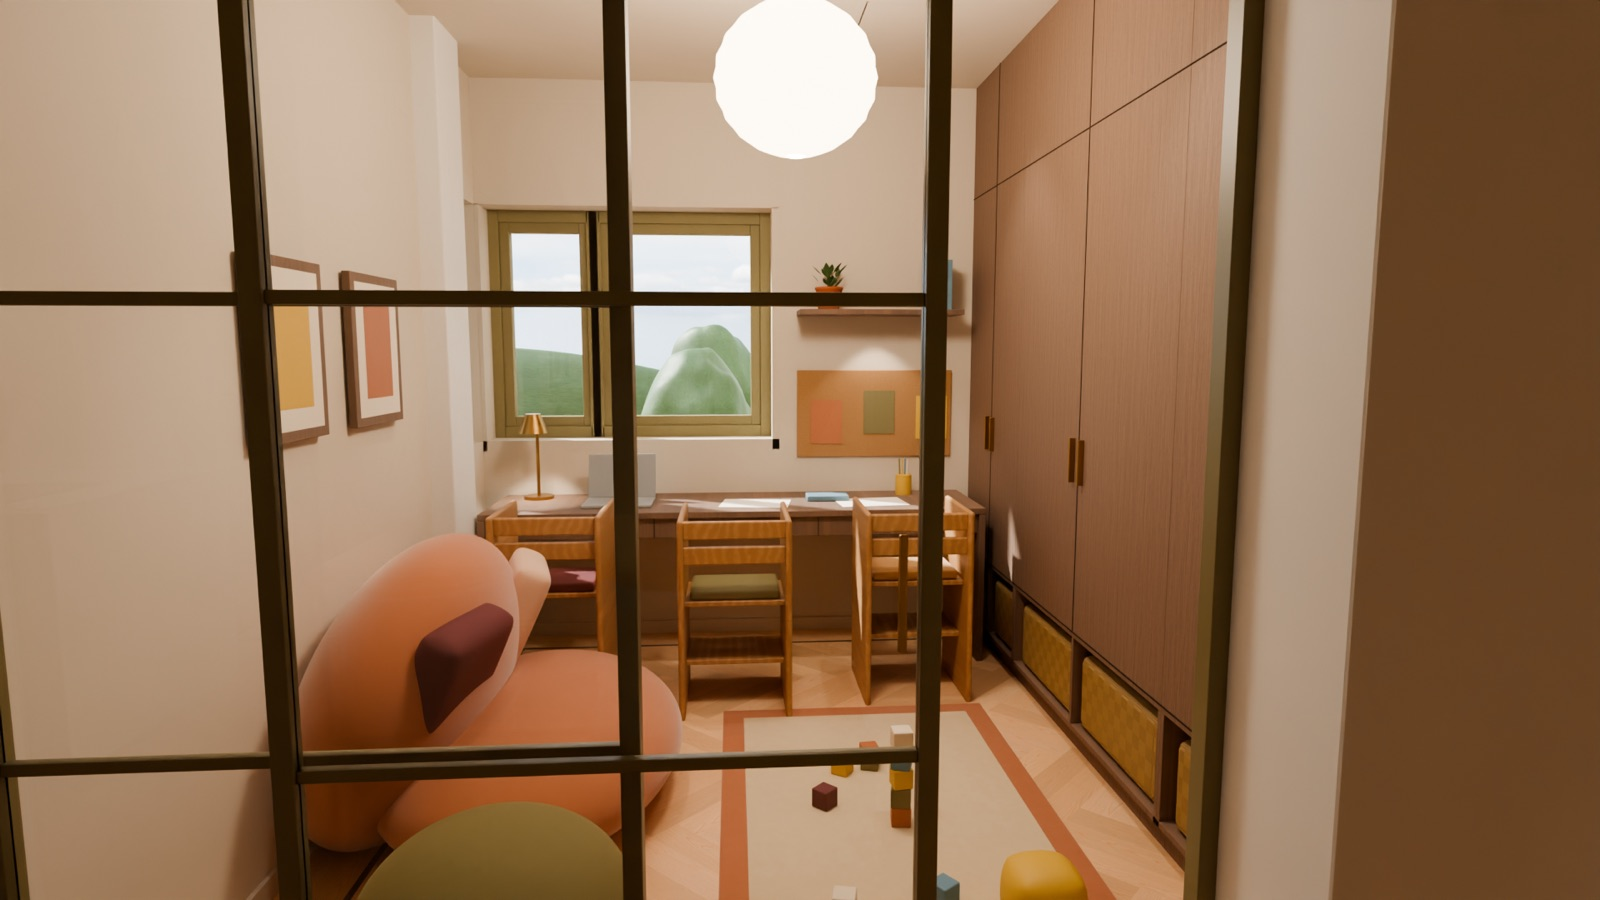
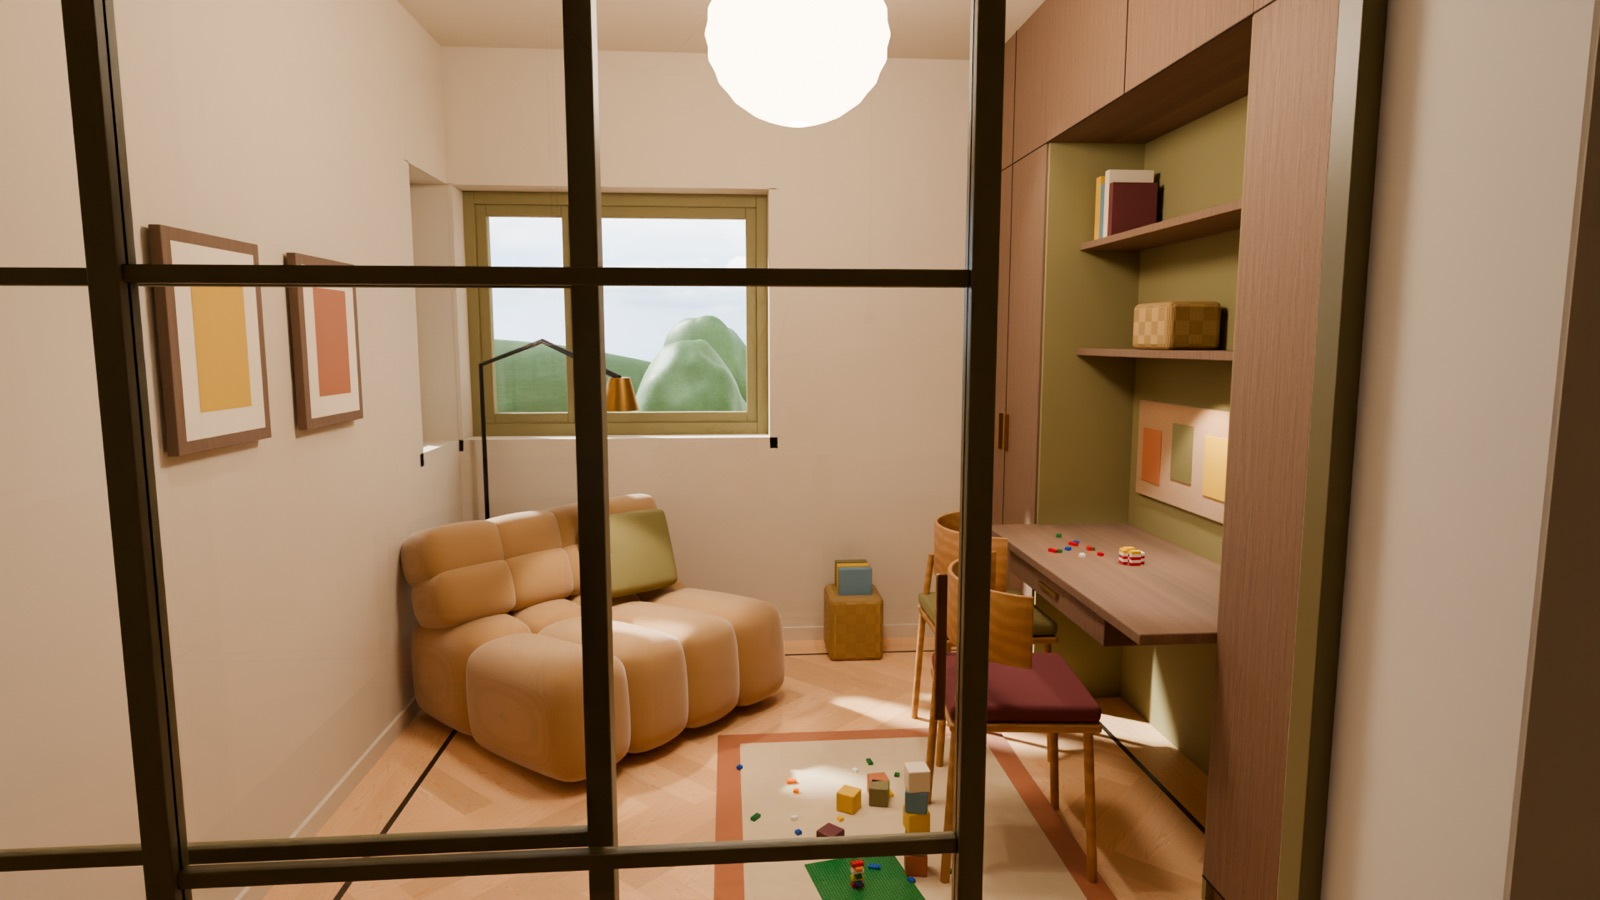
Keuken: erker en eiland als nieuwe 360-punten; eindrenders bijgewerkt (Terra Pink, eethoek, Extens Low, speelkamer v4, deur, spots)

diff --git a/uitleg.html b/uitleg.html
@@ -11,7 +11,7 @@
 <style>
   :root{
     --paper:#F4EEE4; --card:#FBF7F0; --ink:#2A2120; --muted:#6E625B; --rule:#DED2C0;
-    --sand:#D9CFBF; --moss:#8C845F; --merlot:#5F373A; --bounty:#D7CFB6; --tulle:#E6C3AA;
+    --sand:#D9CFBF; --moss:#8C845F; --merlot:#5F373A; --bounty:#D7CFB6; --tulle:#A4705E;
     --serif:"Fraunces",Georgia,serif; --sans:"Inter","Helvetica Neue",Arial,sans-serif;
   }
   @media (prefers-color-scheme: dark){
@@ -78,8 +78,7 @@
   .kleur small{color:var(--muted);font-size:12px;letter-spacing:.06em}
   .kleur p{font-size:14px;margin-top:8px}
   .patroon-bounty{background:repeating-linear-gradient(70deg,#D3C9AE 0 18px,#E6DFCC 18px 34px,#C2B596 34px 36px)}
-  .patroon-tulle{background:repeating-linear-gradient(0deg,#E1BFA6 0 2px,#EACDB8 2px 4px),#E6C3AA;background-blend-mode:multiply}
-  .regels{margin-top:32px;display:grid;grid-template-columns:repeat(auto-fit,minmax(260px,1fr));gap:16px}
+    .regels{margin-top:32px;display:grid;grid-template-columns:repeat(auto-fit,minmax(260px,1fr));gap:16px}
   .regel{border-left:3px solid var(--merlot);padding:4px 0 4px 16px}
   .regel b{font-weight:600}
 
@@ -99,7 +98,7 @@
 <header class="hero"><div class="wrap">
   <div class="kicker">Begane grond · ontwerp</div>
   <h1>Warm, gelaagd en <em>vol kleur</em></h1>
-  <p class="lede">Een rustige zandbasis met twee uitgesproken accenten: diep Merlot in de woonkamer en mosgroen op de bogen. Twee behangen geven textuur. Walnoot, eiken en donkerblauw maken het af.</p>
+  <p class="lede">Een rustige zandbasis met uitgesproken accenten: diep Merlot en warm Terra Pink in de woonkamer, mosgroen op de bogen. Het Bounty-behang geeft textuur. Walnoot, eiken en donkerblauw maken het af.</p>
   <div class="balk" aria-hidden="true"><span style="background:var(--sand)"></span><span style="background:var(--moss)"></span><span style="background:var(--bounty)"></span><span style="background:var(--tulle)"></span><span style="background:var(--merlot)"></span></div>
 </div></header>
 
@@ -112,30 +111,30 @@
       <img src="img/sfeer/16-woonkamer-v2-zithoek.jpg" alt="Woonkamer: Eyye Dura-bank, salontafel en grijs gevlochten kleed, met de mosgroene bogen naar de eetzone" loading="lazy">
       <div class="rij">
         <img src="img/sfeer/17-woonkamer-v2-vanaf-boog.jpg" alt="Woonkamer vanaf de boog met Nelson Bench en donkerblauwe Extens-kast" loading="lazy">
-        <img src="img/sfeer/18-woonkamer-v2-frame-tv.jpg" alt="Tv-wand met Samsung The Frame boven een walnoten Treku Lauki met Pro-Ject platenspeler" loading="lazy">
+        <img src="img/sfeer/18-woonkamer-v2-frame-tv.jpg" alt="Tv-wand in Terra Pink met Samsung The Frame boven een donkerblauwe Extens Low met Pro-Ject platenspeler" loading="lazy">
       </div>
     </div>
     <div>
       <h3>Woonkamer: knus en muzikaal</h3>
       <p>Merlot Mania omarmt de kamer, op de wanden én op kozijnen, plinten en deuren. Daardoor voelt de kamer als één geheel: diep en warm, met de tuin als lichte uitsparing.</p>
-      <p>Tegen de woningscheidende wand zorgt het textielachtige Tulle-behang in nude voor zachtheid achter de bank. De Eyye Dura staat dwars in de kamer met zicht op de tuin, met de Nelson Bench erachter. The Frame hangt als kunstwerk op de walnoten Lauki; de B&amp;W-speakers staan in de hoeken van de pui.</p>
-      <div class="tags"><span class="tag"><i style="background:var(--merlot)"></i>Merlot Mania</span><span class="tag"><i style="background:var(--tulle)"></i>Tulle Nude</span><span class="tag"><i style="background:var(--moss)"></i>boog Monumental Moss</span></div>
+      <p>De woningscheidende wand achter de bank, waar The Frame hangt, is Terra Pink: een warm, vergrijsd oudroze met een aardse ondertoon dat de Merlot zachter maakt. De Eyye Dura staat dwars in de kamer met zicht op de tuin, met de Nelson Bench erachter. The Frame hangt als kunstwerk boven een donkerblauwe Artifort Extens Low, de partner van de hoge Extens bij de boog; de B&amp;W-speakers staan in de hoeken van de pui.</p>
+      <div class="tags"><span class="tag"><i style="background:var(--merlot)"></i>Merlot Mania</span><span class="tag"><i style="background:var(--tulle)"></i>Terra Pink</span><span class="tag"><i style="background:var(--moss)"></i>boog Monumental Moss</span></div>
     </div>
   </article>
 
   <article class="ruimte">
     <div class="beelden">
-      <img src="img/sfeer/22-woonkamer-v2-portret-frontaal.jpg" alt="Vleugel in de hoek met het portret erboven, uitgelicht door inbouwspots" loading="lazy">
+      <img src="img/sfeer/22-woonkamer-v2-vleugelhoek-frontaal.jpg" alt="Vleugel in de hoek, uitgelicht door inbouwspots in het plafond" loading="lazy">
       <div class="rij">
-        <img src="img/sfeer/21-woonkamer-v2-vleugel-portret.jpg" alt="Vleugelhoek met portret op de tv-niswand" loading="lazy">
-        <img src="img/sfeer/04-eettafel-bounty.jpg" alt="Eetzone met Bounty-behang en mosgroene boog" loading="lazy">
+        <img src="img/sfeer/21-woonkamer-v2-vleugel.jpg" alt="Vleugelhoek met de Merlot-wanden" loading="lazy">
+        <img src="img/sfeer/24-eethoek-vanaf-boog.jpg" alt="Eethoek met eetbank, ovale donkere tafel, stoelen met cognac zitting en twee platte hanglampen" loading="lazy">
       </div>
     </div>
     <div>
       <h3>Muziekhoek: de vleugel als blikvanger</h3>
-      <p>De vleugel staat diagonaal in de hoek bij de tv-nis, met de kruk half onder het klavier. Erboven hangt het portret (120 × 170, zonder lijst). Alleen inbouwspots in het plafond: twee op het schilderij, één op de vleugel.</p>
-      <h3 style="margin-top:22px">Eetzone: licht en textuur</h3>
-      <p>De eetzone is rustig in Frosted Sand. De woningscheidende wand krijgt het Bounty-behang: gestileerde bladeren van fijn geweven gras, ton-sur-ton in zand. De boog in Monumental Moss verbindt eetzone en woonkamer.</p>
+      <p>De vleugel staat diagonaal in de hoek bij de tv-nis, met de kruk half onder het klavier. Inbouwspots in het plafond lichten de vleugel en de Merlot-wanden uit, zodat de hoek niet donker wordt.</p>
+      <h3 style="margin-top:22px">Eethoek: tafelen als in een restaurant</h3>
+      <p>Tegen de Bounty-wand een gestoffeerde eetbank in grijs-lila bouclé, met een ovale tafel in zwartbruin eiken op twee geribde zuilpoten. Aan de andere kant stoelen met een gerookt eiken rugschaal en een zitting van cognac leer. Twee platte, champagnekleurige kegelpendels hangen aan een slingerende kabel en geven warm licht op het blad; een jute kleed en terracotta vazen maken het af.</p>
       <div class="tags"><span class="tag"><i style="background:var(--sand)"></i>Frosted Sand</span><span class="tag"><i style="background:var(--bounty)"></i>Bounty</span><span class="tag"><i style="background:var(--moss)"></i>Monumental Moss</span></div>
     </div>
   </article>
@@ -155,14 +154,14 @@
     <div class="beelden">
       <img src="img/sfeer/10-speelkamer-door-pui.jpg" alt="Speelkamer gezien door de stalen glazen pui" loading="lazy">
       <div class="rij">
-        <img src="img/sfeer/11-speelkamer-bureau-raam.jpg" alt="Bureau onder het raam met drie meegroeistoelen" loading="lazy">
-        <img src="img/sfeer/12-speelkamer-zitzak.jpg" alt="Zitzak en poef tegen de straatwand" loading="lazy">
+        <img src="img/sfeer/13-speelkamer-bureaukast.jpg" alt="Walnoten kastenwand met bureaunis en twee slanke stoelen" loading="lazy">
+        <img src="img/sfeer/11-speelkamer-leeshoek.jpg" alt="Leeshoek met HKliving Lazy in camel corduroy en leeslamp" loading="lazy">
       </div>
     </div>
     <div>
       <h3>Speelkamer: achter glas, midden in huis</h3>
-      <p>Een stalen glazen pui met schuifdeur in Monumental Moss sluit de speelkamer af, maar houdt het contact met de eetzone. Een walnoten kast tot het plafond (40 cm diep) geeft volop opbergruimte, met manden onderin.</p>
-      <p>Onder het raam een bureau op normale hoogte (73 cm), zodat er ook thuis gewerkt kan worden; de kinderen zitten op meegroeistoelen. Een zitzak en poef maken er een plek om te lezen en te hangen.</p>
+      <p>Een stalen glazen pui met schuifdeur in Monumental Moss sluit de speelkamer af, maar houdt het contact met de eetzone. Een rustige walnoten kastenwand tot het plafond (40 cm diep), dicht tot de vloer, met in het midden een bureaunis: mosgroene achterwand, blad op 73 cm (ook om thuis te werken), planken en een prikbord. Twee slanke stoelen met een licht eiken rugschaal schuiven eronder.</p>
+      <p>In de raamhoek een HKliving Lazy in camel corduroy: laag, breed en zacht, om in weg te kruipen met een boek, met een leeslamp erboven. LEGO op het bureau en het speelkleed maken het af.</p>
       <div class="tags"><span class="tag"><i style="background:var(--sand)"></i>Frosted Sand</span><span class="tag"><i style="background:#6B4A33"></i>walnoot</span><span class="tag"><i style="background:var(--moss)"></i>pui Monumental Moss</span></div>
     </div>
   </article>
@@ -174,10 +173,10 @@
   <div class="plangrid">
     <img src="img/plan.jpg" alt="Plattegrond begane grond met woonkamer, eetzone, speelkamer, keuken en hal" loading="lazy">
     <ol>
-      <li><b>Woonkamer (tuinzijde, 20 cm verdiept).</b> Bank dwars in de kamer, 30 cm van de wand; Nelson Bench erachter. Vleugel diagonaal in de hoek. Loopruimte langs de vleugel ±84 cm, tussen boog en Nelson Bench ±1,26 m.</li>
+      <li><b>Woonkamer (tuinzijde, 20 cm verdiept).</b> Bank dwars in de kamer, 30 cm van de Terra Pink-wand; Nelson Bench erachter. Vleugel diagonaal in de hoek. Loopruimte langs de vleugel ±84 cm, tussen boog en Nelson Bench ±1,26 m.</li>
       <li><b>Bogen.</b> Drie bogen in Monumental Moss vormen de overgang naar de eetzone; de middelste is de looproute.</li>
-      <li><b>Eetzone.</b> Eettafel 240 × 100 met zes stoelen langs de Bounty-wand.</li>
-      <li><b>Speelkamer.</b> Achter de glazen pui; kast tegen de dichte wand, bureau onder het raam, zitzak bij de straatwand.</li>
+      <li><b>Eetzone.</b> Eetbank (2,60 m) tegen de Bounty-wand, ovale tafel 240 × 100 en drie stoelen; ±1,17 m loopruimte tot de penant.</li>
+      <li><b>Speelkamer.</b> Achter de glazen pui; walnoten kastenwand met bureaunis, leesfauteuil in de raamhoek.</li>
       <li><b>Keuken met erker.</b> Kastenwand en eiland; de erker aan de straatzijde.</li>
       <li><b>Hal.</b> Rustig in Frosted Sand, met de trap naar boven.</li>
     </ol>
@@ -186,12 +185,12 @@
 
 <section id="kleur"><div class="wrap">
   <h2>Kleurgebruik</h2>
-  <p class="intro">Vijf kleuren en behangen die steeds terugkomen. Kleurnamen zijn van LAB Colour the World; de kleurvlakken hier zijn schermbenaderingen, geen echte stalen.</p>
+  <p class="intro">Vier verfkleuren en één behang die steeds terugkomen. Kleurnamen zijn van LAB Colour the World; de kleurvlakken hier zijn schermbenaderingen, geen echte stalen.</p>
   <div class="kleuren">
     <div class="kleur"><div class="staal" style="background:var(--sand)"><span>1</span></div><div class="tekst"><b>Frosted Sand</b><small>LAB no. 374 · verf</small><p>De basis: hal, eetzone, keuken, speelkamer en alle plafonds.</p></div></div>
     <div class="kleur"><div class="staal" style="background:var(--moss);color:#F4EEE4"><span>2</span></div><div class="tekst"><b>Monumental Moss</b><small>LAB no. 265 · verf</small><p>De bogen (beide zijden), kozijnen in keuken en speelkamer, de glazen pui en de trap.</p></div></div>
     <div class="kleur"><div class="staal patroon-bounty"><span>3</span></div><div class="tekst"><b>Bounty</b><small>ARTE 24024 · behang</small><p>Woningscheidende wand in de eetzone en keuken.</p></div></div>
-    <div class="kleur"><div class="staal patroon-tulle"><span>4</span></div><div class="tekst"><b>Tulle Nude</b><small>ARTE 73089 · behang</small><p>Woningscheidende wand in de woonkamer, achter de bank.</p></div></div>
+    <div class="kleur"><div class="staal" style="background:var(--tulle);color:#F4EEE4"><span>4</span></div><div class="tekst"><b>Terra Pink</b><small>LAB no. 102 · verf</small><p>Tv-wand achter de bank in de woonkamer, plint mee in de kleur.</p></div></div>
     <div class="kleur"><div class="staal" style="background:var(--merlot);color:#F4EEE4"><span>5</span></div><div class="tekst"><b>Merlot Mania</b><small>LAB no. 123 · verf</small><p>Woonkamer en toilet, inclusief kozijnen, plinten en deuren.</p></div></div>
   </div>
   <div class="regels">
@@ -211,13 +210,17 @@
       <tr><td>Woonkamer</td><td>Eyye Dura 4-zits</td><td>Dwars in de kamer, zicht op de tuin, 30 cm van de wand</td></tr>
       <tr><td>Woonkamer</td><td>Vitra Nelson Bench (large)</td><td>Achter de bank; boeken, plant en mand erop</td></tr>
       <tr><td>Woonkamer</td><td>Artifort Extens High, donkerblauw</td><td>Naast de boog, op de Tulle-wand</td></tr>
-      <tr><td>Woonkamer</td><td>Treku Lauki, walnoot</td><td>Tv-meubel onder Samsung The Frame; Pro-Ject platenspeler erop</td></tr>
+      <tr><td>Woonkamer</td><td>Artifort Extens Low 120, donkerblauw</td><td>Tv-dressoir onder Samsung The Frame; open vak voor de versterker, Pro-Ject erop</td></tr>
       <tr><td>Woonkamer</td><td>B&amp;W 603</td><td>In de hoeken van de achterpui, gericht op de bank</td></tr>
       <tr><td>Woonkamer</td><td>Vloerlamp Kees (zwart)</td><td>Naast de rechterarmleuning, leeslicht over de bank</td></tr>
       <tr><td>Woonkamer</td><td>Wollen kleed, grof gevlochten grijs</td><td>290 × 200, deels onder de bank</td></tr>
-      <tr><td>Woonkamer</td><td>Kawai-vleugel + portret 120 × 170</td><td>Diagonaal in de hoek; inbouwspots in het plafond</td></tr>
-      <tr><td>Eetzone</td><td>Eiken eettafel 240 × 100</td><td>Zes stoelen, langs het Bounty-behang</td></tr>
-      <tr><td>Speelkamer</td><td>Walnoten inbouwkast, bureau, meegroeistoelen</td><td>Kast tot het plafond, bureau 73 cm hoog onder het raam</td></tr>
+      <tr><td>Woonkamer</td><td>Kawai-vleugel</td><td>Diagonaal in de hoek; inbouwspots in het plafond</td></tr>
+      <tr><td>Eetzone</td><td>Eetbank, grijs-lila bouclé</td><td>2,60 m tegen de Bounty-wand, op dun zwart onderstel</td></tr>
+      <tr><td>Eetzone</td><td>Ovale tafel 240 × 100, zwartbruin eiken</td><td>Twee geribde zuilpoten; drie stoelen met cognac leren zitting</td></tr>
+      <tr><td>Eetzone</td><td>2 kegelpendels Ø65, champagne</td><td>Messing plafondcups, slingerkabel vanuit één rozet, 68 cm boven het blad</td></tr>
+      <tr><td>Eetzone</td><td>Jute kleed 250 × 300</td><td>Onder tafel, stoelen en bank</td></tr>
+      <tr><td>Speelkamer</td><td>Walnoten kastenwand met bureaunis</td><td>Dicht tot de vloer; bureau 73 cm, twee slanke stoelen</td></tr>
+      <tr><td>Speelkamer</td><td>HKliving Lazy, corduroy</td><td>Leesfauteuil in de raamhoek, met leeslamp</td></tr>
     </tbody>
   </table></div>
 </div></section>

diff --git a/index.html b/index.html
@@ -107,17 +107,22 @@ const SPOTS = {
   keuken:     {titel:'Keuken', x:8.15, y:-11.60, oog:1.55, start:10},
   speelkamer: {titel:'Speelkamer', x:5.80, y:-7.15, oog:1.50, start:-80},
   hal:        {titel:'Hal', x:6.25, y:-11.30, oog:1.55, start:-160},
+  erker:      {titel:'Keuken · erker', x:8.45, y:-13.85, oog:1.55, start:10},
+  eiland:     {titel:'Keuken · eiland', x:10.13, y:-11.20, oog:1.55, start:-120},
 };
 // looproutes; 'via' = punt waar de pijl staat (boog, pui, deur)
 const LINKS = {
   woonkamer:  [['vleugel'], ['eetzone', [8.90, -5.28]]],
   vleugel:    [['woonkamer'], ['eetzone', [8.90, -5.28]]],
-  eetzone:    [['vleugel', [8.90, -5.28]], ['keuken'], ['speelkamer', [7.10, -7.55]], ['hal', [7.15, -9.20]]],
-  keuken:     [['eetzone']],
+  eetzone:    [['vleugel', [8.90, -5.28]], ['keuken'], ['eiland'], ['speelkamer', [7.10, -7.55]], ['hal', [7.15, -9.20]]],
+  keuken:     [['eetzone'], ['erker'], ['eiland', [9.20, -13.75]]],
+  erker:      [['keuken'], ['eiland']],
+  eiland:     [['eetzone'], ['erker'], ['keuken', [9.20, -13.75]]],
   speelkamer: [['eetzone', [7.10, -7.55]]],
   hal:        [['eetzone', [7.10, -9.20]]],
 };
-const VOLGORDE = ['woonkamer', 'vleugel', 'eetzone', 'keuken', 'speelkamer', 'hal'];
+const VOLGORDE = ['woonkamer', 'vleugel', 'eetzone', 'keuken', 'erker', 'eiland', 'speelkamer', 'hal'];
+const HEEFT_FOTO = new Set(['woonkamer', 'vleugel', 'eetzone', 'keuken', 'speelkamer', 'hal']);   // AI-versies die er zijn
 const deg = r => r * 180 / Math.PI;
 // midden van het panorama = +Y (tuinzijde); yaw naar rechts = +X
 function richting(a, p) {
@@ -130,7 +135,7 @@ function maakSpot(div, args) {
   div.innerHTML = pijl + '<span>' + args + '</span>';
 }
 const scenes = {};
-const VERSIE = {foto: {suffix: '', bestand: id => 'pano/' + id + '-fotorealistisch.jpg'},
+const VERSIE = {foto: {suffix: '', bestand: id => HEEFT_FOTO.has(id) ? 'pano/' + id + '-fotorealistisch.jpg' : 'pano/' + id + '.jpg'},
                 model: {suffix: '~model', bestand: id => 'pano/' + id + '.jpg'}};
 let versie = 'foto';
 const kaal = sid => sid.split('~')[0];
